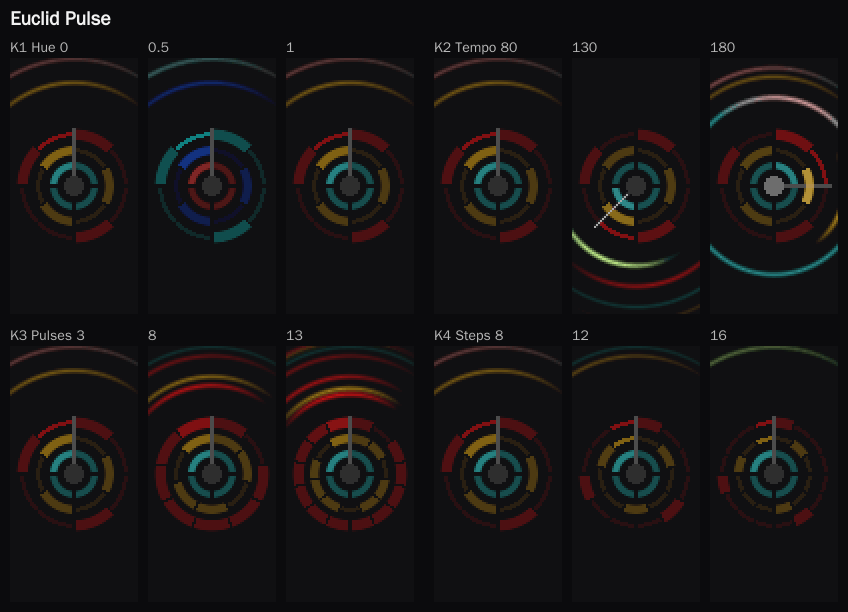
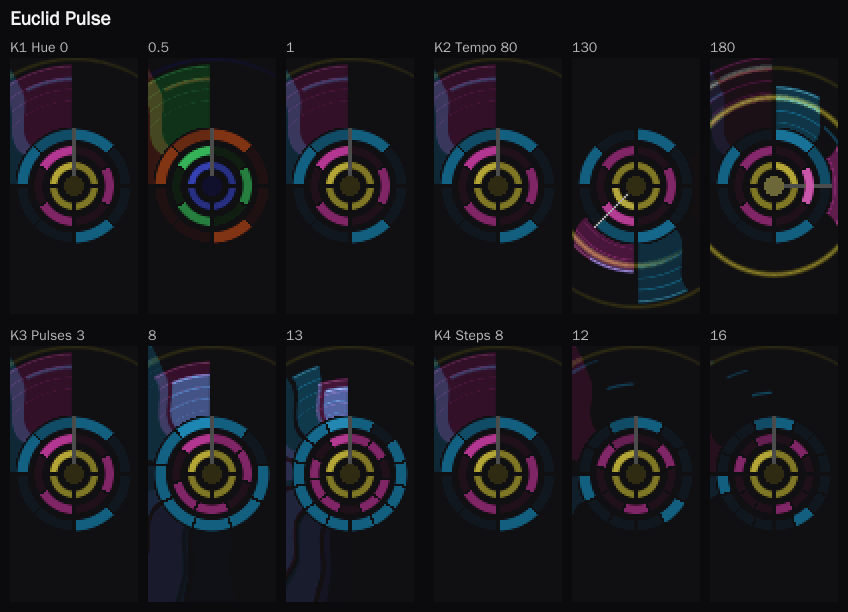
Euclid Pulse 의 박이 고리 밖 제 조각을 따라 빛으로 나가고, 청록에서 열린다
Claude-Session: https://claude.ai/code/session_011jfytxL6cz5m1tfiXFZMCV

Changed region(s): [[0.0, 0.0931, 1.0, 0.5278], [0.0, 0.5588, 0.9811, 0.9935], [0.8278, 0.5588, 0.9505, 0.5899]]

diff --git a/incoming/pattern-study/patterns/euclid-pulse.js b/incoming/pattern-study/patterns/euclid-pulse.js
@@ -13,7 +13,7 @@
 // Knob 1: Hue. Turns the three rings around the colour wheel together.
 // Knob 2: Tempo. Beats per minute; the hand goes round once every four beats.
 // Knob 3: Pulses. Hits on the outer ring; the middle ring takes about half as many.
-// Knob 4: Steps. Steps on the outer ring; the middle ring has three for every four of them.
+// Knob 4: Steps. Steps on the outer ring; the middle ring has three for every four of them. Each outer step owns a slice of the panel and a hit fires a beam down it, so more steps make narrower beams.
 // Buttons: K3 tap turns the outer rhythm one step later.
 
 const W = 64;
@@ -27,6 +27,19 @@ const RIPPLES = 24;
 // stops three LEDs short of the panel's sides so a ripple can be seen leaving it.
 const R_IN = [23, 15.5, 8.5];
 const R_OUT = [28.5, 20, 12];
+// Beams start just outside the outer ring. The far corners are 71 LEDs out.
+const BEAM_FROM = R_OUT[0] + 1.5;
+// A hit rings out as four arcs, one every 0.09 s, each a little dimmer,
+// running out at 64 LEDs a second: five or six LEDs apart.
+const ARCS = 4;
+const ARC_GAP = 0.09;
+const ARC_SPEED = 64;
+const BEND = 0.75;
+// The outer ring's beams and the middle ring's, which are a little dimmer so
+// the outer rhythm leads.
+const FLASH = [0.4, 0.3];
+const GLOW = [0.34, 0.24];
+const ARC_POWER = [1, 0.7];
 
 function hsv(h, s, v, out) {
   h = h - Math.floor(h);
@@ -49,6 +62,38 @@ function euclid(p, ring, k, n, rot) {
     const t = (s - rot + n * 4) % n;
     p.hits[ring * MAX_STEPS + s] = (t * k) % n < k ? 1 : 0;
   }
+}
+
+// How brightly a ring's slice s lights a point r LEDs out, with the share of
+// it that is white left in p.white. A hit rings out as a burst of arcs, and
+// the slice fills in behind the first: a flash that settles to a glow and
+// dims through the next three beats. A rest on the outer ring sends one dim
+// arc, so the panel ticks out every step as the hand reaches it.
+function beam(p, ring, s, r) {
+  const at = ring * MAX_STEPS + s;
+  const since = p.beam[at];
+  const age = since / p.life;
+  let v = 0;
+  p.white = 0;
+  if (ring === 0 && !p.hits[at] && p.pass[s] < 1) {
+    const front = BEAM_FROM + ARC_SPEED * p.pass[s];
+    const d = Math.abs(r - front);
+    if (d < 1.4) v = 0.45 * (1 - d / 1.4) * Math.max(0.25, 1 - (front - BEAM_FROM) / 60);
+  }
+  if (age < 1) {
+    if (r < BEAM_FROM + ARC_SPEED * since) v = Math.max(v, FLASH[ring] * Math.exp(-6 * since) + GLOW[ring] * Math.pow(1 - age, 1.3));
+    for (let k = 0; k < ARCS; k++) {
+      const front = BEAM_FROM + ARC_SPEED * (since - k * ARC_GAP);
+      const d = Math.abs(r - front);
+      if (front < BEAM_FROM - 1 || d > 1.4) continue;
+      const arc = ARC_POWER[ring] * (1 - d / 1.4) * Math.pow(0.78, k) * Math.max(0.25, 1 - (front - BEAM_FROM) / 60);
+      if (arc > v) {
+        v = arc;
+        p.white = k === 0 ? arc * 0.45 : 0;
+      }
+    }
+  }
+  return v;
 }
 
 // A ripple leaves the outer edge as an arc facing the step that fired; wide 0
@@ -78,6 +123,11 @@ export function setup(params) {
   p.env = new Float32Array(3 * MAX_STEPS);
   p.last = new Int32Array([-1, -1, -1]);
   p.down = 0;
+  // Seconds since each step of the outer two rings last hit, and since the
+  // hand last reached each outer step.
+  p.beam = new Float32Array(2 * MAX_STEPS).fill(99);
+  p.pass = new Float32Array(MAX_STEPS).fill(99);
+  p.white = 0;
   p.rAge = new Float32Array(RIPPLES).fill(1);
   p.rRing = new Uint8Array(RIPPLES);
   p.rPower = new Float32Array(RIPPLES);
@@ -86,14 +136,30 @@ export function setup(params) {
   p.rWide = new Float32Array(RIPPLES);
   p.dist = new Float32Array(W * H);
   p.turn = new Float32Array(W * H);
+  p.slice = new Float32Array(W * H);
+  p.across = new Float32Array(W * H);
   for (let y = 0; y < H; y++) {
     for (let x = 0; x < W; x++) {
+      const i = y * W + x;
       const dx = x - CX;
       const dy = y - CY;
-      p.dist[y * W + x] = Math.hypot(dx, dy);
+      const r = Math.hypot(dx, dy);
+      p.dist[i] = r;
       // 0 at twelve o'clock, growing clockwise.
-      const a = Math.atan2(dx, -dy) / 6.2832;
-      p.turn[y * W + x] = a < 0 ? a + 1 : a;
+      let a = Math.atan2(dx, -dy) / 6.2832;
+      if (a < 0) a += 1;
+      p.turn[i] = a;
+      // Outside the rings the slices bend toward twelve and six as they go
+      // out, the way the arcs do: a slice that leaves at three o'clock would
+      // reach the side of the panel in three LEDs. The bend squeezes the turn
+      // around the sides and stretches it above and below, so every slice
+      // keeps a share of the open space. across turns a fraction of a slice
+      // into LEDs at this radius.
+      const u = Math.max(0, Math.min(1, (r - BEAM_FROM) / 24));
+      const bend = BEND * u * u * (3 - 2 * u);
+      const w = a + (bend * Math.sin(12.566 * a)) / 12.566;
+      p.slice[i] = w - Math.floor(w);
+      p.across[i] = (6.2832 * r) / (1 + bend * Math.cos(12.566 * a));
     }
   }
   p.col = [
@@ -122,18 +188,24 @@ export function update(dt, input, params) {
   const fade = Math.exp(-dt * 5.5);
   for (let i = 0; i < 3 * MAX_STEPS; i++) p.env[i] *= fade;
   p.down *= Math.exp(-dt * 4);
+  // A slice glows for three beats after its hit, so the beams of a bar are
+  // still there, fading, as the next one leaves.
+  p.life = 180 / p.bpm;
+  for (let i = 0; i < 2 * MAX_STEPS; i++) p.beam[i] = Math.min(99, p.beam[i] + dt);
+  for (let s = 0; s < MAX_STEPS; s++) p.pass[s] = Math.min(99, p.pass[s] + dt);
   for (let ring = 0; ring < 3; ring++) {
     const n = p.n[ring];
     const step = Math.floor(p.hand * n);
     if (step !== p.last[ring]) {
       p.last[ring] = step;
+      if (ring === 0) p.pass[step] = 0;
       if (p.hits[ring * MAX_STEPS + step]) {
         p.env[ring * MAX_STEPS + step] = 1;
-        const angle = (step + 0.5) / n;
-        if (ring === 2 && step === 0) {
+        if (ring < 2) p.beam[ring * MAX_STEPS + step] = 0;
+        else if (step === 0) {
           p.down = 1;
           spawn(p, 2, 0.8, 0, 0);
-        } else spawn(p, ring, ring === 0 ? 1 : ring === 1 ? 0.85 : 0.6, angle, ring === 2 ? 0.2 : 0.13);
+        } else spawn(p, 2, 0.6, (step + 0.5) / n, 0.2);
       }
     }
   }
@@ -150,9 +222,10 @@ export function update(dt, input, params) {
 
 export function draw(display, params, time) {
   const p = params;
-  hsv(p.hue, 0.9, 1, p.col[0]);
-  hsv(p.hue + 0.12, 0.85, 1, p.col[1]);
-  hsv(p.hue + 0.5, 0.7, 1, p.col[2]);
+  // Hue 0 opens on an azure outer ring, a pink middle and a gold centre.
+  hsv(p.hue + 0.55, 0.85, 1, p.col[0]);
+  hsv(p.hue + 0.88, 0.7, 1, p.col[1]);
+  hsv(p.hue + 0.15, 0.7, 1, p.col[2]);
   const hand = p.hand;
   const hx = Math.sin(hand * 6.2832);
   const hy = -Math.cos(hand * 6.2832);
@@ -171,7 +244,6 @@ export function draw(display, params, time) {
         const pos = a * n;
         const s = Math.floor(pos);
         const local = pos - s;
-        const mid = (R_IN[ring] + R_OUT[ring]) / 2;
         // A gap of about one LED between neighbouring steps.
         const gap = (0.6 * n) / (6.2832 * r);
         const edge = Math.min(r - R_IN[ring], R_OUT[ring] - r) + 0.5;
@@ -180,14 +252,14 @@ export function draw(display, params, time) {
           const env = p.env[ring * MAX_STEPS + s];
           const here = s === Math.floor(hand * n);
           const soft = Math.max(0, Math.min(1, edge));
-          let v = 0;
+          let v;
           let white = 0;
           if (hit) {
-            v = Math.max(0.3 + 0.7 * env, here ? 0.5 : 0) * soft;
+            v = Math.max(0.5 + 0.5 * env, here ? 0.7 : 0) * soft;
             white = env * env * 0.55;
-          } else if (Math.abs(r - mid) < 1) {
-            // A rest is a thin line, lit up while the hand is on it.
-            v = here ? 0.5 : 0.16;
+          } else {
+            // A rest is a dim cell, so the steps can be counted between hits.
+            v = (here ? 0.4 : 0.12) * soft;
           }
           const c = p.col[ring];
           R = (c[0] * (1 - white) + 255 * white) * v;
@@ -196,10 +268,33 @@ export function draw(display, params, time) {
         }
       } else if (r < 5) {
         const v = 0.18 + 0.82 * p.down;
-        R = 255 * v;
-        G = 255 * v;
-        B = 255 * v;
+        const c = p.col[2];
+        R = c[0] * v + (255 - c[0]) * v * p.down;
+        G = c[1] * v + (255 - c[1]) * v * p.down;
+        B = c[2] * v + (255 - c[2]) * v * p.down;
       } else if (r > R_OUT[0] + 1) {
+        // Outside the rings each step of the outer two owns a slice of the
+        // panel, the middle ring's three for every four of the outer's, and
+        // a hit sends a beam out along its slice. Where beams of the two
+        // overlap their colours add.
+        for (let j = 0; j < 2; j++) {
+          const n = p.n[j];
+          const pos = p.slice[i] * n;
+          const s = Math.floor(pos);
+          // A slice with nothing in it is dark.
+          if (p.beam[j * MAX_STEPS + s] >= p.life && (j > 0 || p.pass[s] >= 1)) continue;
+          const local = pos - s;
+          // LEDs to the nearer side of the slice, with a dark LED between slices.
+          const soft = Math.max(0, Math.min(1, (Math.min(local, 1 - local) * p.across[i]) / n - 0.6));
+          if (soft <= 0) continue;
+          const v = beam(p, j, s, r) * soft;
+          if (v <= 0) continue;
+          const white = p.white;
+          const c = p.col[j];
+          R += (c[0] * (1 - white) + 255 * white) * v;
+          G += (c[1] * (1 - white) + 255 * white) * v;
+          B += (c[2] * (1 - white) + 255 * white) * v;
+        }
         for (let q = 0; q < RIPPLES; q++) {
           const age = p.rAge[q];
           if (age >= 1) continue;
@@ -233,7 +328,7 @@ export function draw(display, params, time) {
           B = Math.max(B, 170 * v);
         }
       }
-      display.setPixel(x, y, R, G, B);
+      display.setPixel(x, y, Math.min(255, R), Math.min(255, G), Math.min(255, B));
     }
   }
 }
